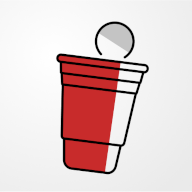
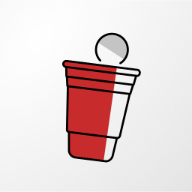
intermediate commit
- updated icons to have mor maskable space

Changed region(s): [[0.2812, 0.0938, 0.7812, 0.9062]]

diff --git a/flutter_service_worker.js b/flutter_service_worker.js
@@ -13,15 +13,18 @@ const RESOURCES = {
 "assets/FontManifest.json": "0954099dc39f0f0cf5d270fab9e58882",
 "assets/AssetManifest.json": "faf706a0bfc9d12cfefc13d53f7e9c55",
 "version.json": "ee9a2a13aaea9c22c7caa6bf66e7b5bc",
-"icons/icon-512.png": "5d3aed3a50e9851c6177b6bec71a7e42",
-"icons/icon-192.png": "ff73723274d52443af2785d01791b061",
+"icons/icon-512.png": "12171d5a88ad00d94d56da6f39e395b3",
+"icons/apple-touch-icon.png": "677d89d51899e80600eb52e6933cdadf",
+"icons/icon-192.png": "0a93f946ee753f76f5b5d09a426e6ca0",
+"favicon.ico": "ce925cb1075bd7cf55fbe5bffe9e1a37",
 "js/qr-scanner.umd.min.js": "56585c72fa67697f9a7a6a3a8ee30b41",
 "js/qr-scanner-worker.min.js": "6aa584a2de9d2c59e701a0879ae93973",
-"index.html": "b8d1c05b62756e38ce6aea3e74af0690",
-"/": "b8d1c05b62756e38ce6aea3e74af0690",
+"index.html": "b20c7857237912908bafc16fbf6195ef",
+"/": "b20c7857237912908bafc16fbf6195ef",
+"favicon-16x16.png": "0102cb7374ba7179f7623e18b8d826a2",
 "manifest.json": "ce71db3211f11d5901d15995f1860e4c",
 "main.dart.js": "25389c3a5632705e8d59dffb6eafb0ff",
-"favicon.png": "91cd8b875c5b0eefbfba30842ffaf755"
+"favicon-32x32.png": "afc7da3843869f94dd6c332d48618f4f"
 };
 
 // The application shell files that are downloaded before a service worker can

diff --git a/index.html b/index.html
@@ -22,10 +22,11 @@
   <meta name="apple-mobile-web-app-capable" content="yes">
   <meta name="apple-mobile-web-app-status-bar-style" content="black">
   <meta name="apple-mobile-web-app-title" content="cups">
-  <link rel="apple-touch-icon" href="icons/icon-192.png">
+  <link rel="apple-touch-icon" sizes="180x180" href="icons/apple-touch-icon.png">
 
   <!-- Favicon -->
-  <link rel="icon" type="image/png" href="favicon.png" />
+  <link rel="icon" type="image/png" sizes="32x32" href="/favicon-32x32.png">
+  <link rel="icon" type="image/png" sizes="16x16" href="/favicon-16x16.png">  
 
   <title>cups</title>
   <link rel="manifest" href="manifest.json">
@@ -43,7 +44,7 @@
   <script>
     if ('serviceWorker' in navigator) {
       window.addEventListener('flutter-first-frame', function () {
-        navigator.serviceWorker.register('flutter_service_worker.js?v=3457690807');
+        navigator.serviceWorker.register('flutter_service_worker.js?v=3850573945');
       });
     }
   </script>
